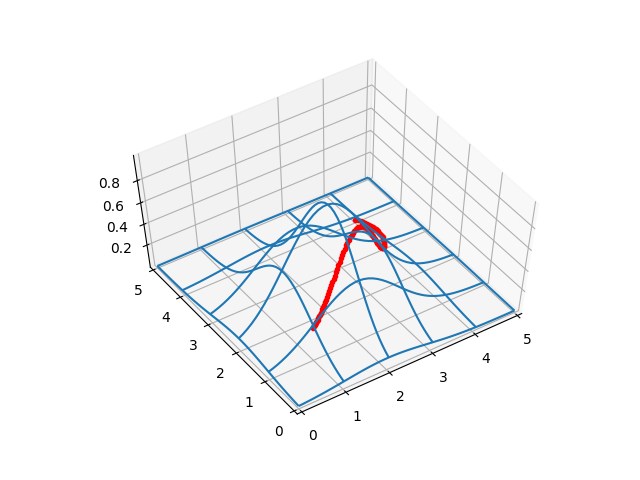
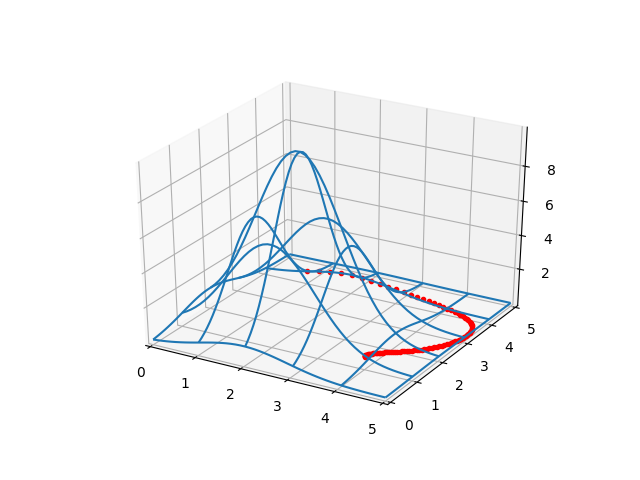
-

diff --git a/calc_multi/calc_multi_40_elev/calc_multi_40_elev.html b/calc_multi/calc_multi_40_elev/calc_multi_40_elev.html
@@ -83,8 +83,9 @@ def plot_surf_path(a0,a1,a2,a3,a4,b0,b1,b2,b3,b4):
     y = b0 + b1*t + b2*t**2 + b3*t**3 + b4*t**4
 
     ax.plot3D(x, y, gfunc(x,y),'r.')
+</code></pre>
 
-# 1. gidis yolunun tanimi, uzun yoldan dolanarak gidiyor
+<pre><code class="python"># 1. gidis yolunun tanimi, uzun yoldan dolanarak gidiyor
 a1,a2,a3 = 1.5, 8.1, 4.0
 b1,b2,b3 = 0.3, 0.4, 23.3
 a0,b0=(1.0,1.0)
@@ -234,6 +235,12 @@ ex,ey=(0.3,4.0)
 res = find_path(ex,ey,a0,b0)
 print  ('res',res)
 print  ('res',res['x'])
+
+a0,b0=(4.0,1.0)
+ex,ey=(1.0,4.0)
+res = find_path(ex,ey,a0,b0)
+print  ('res',res)
+print  ('res',res['x'])
 </code></pre>
 
 <pre><code>res  barrier_parameter: 6.400000000000003e-06
@@ -271,6 +278,8 @@ print  ('res',res['x'])
                  x: array([-1.08548354, -0.36789632, -0.20897387,  0.2395503 ,  0.29868552,
         0.00380265])
 res [-1.08548354 -0.36789632 -0.20897387  0.2395503   0.29868552  0.00380265]
+...
+res [-0.3061632   4.76223126  4.99872105  0.41013189  4.9713953   4.9745472 ]
 </code></pre>
 
 <p>Bir optimal sonuç bulundu. Grafikleyelim,</p>
@@ -284,6 +293,18 @@ plt.savefig('calc_multi_40_elev_04.png')
 <p><img alt="" src="calc_multi_40_elev_04.png" /></p>
 <p>Yol oldukca optimal duruyor. Gereksiz iniş çıkış yok, ve yatay mesafe de
 minimize edilmiş. </p>
+<p>İkinci örnek </p>
+<pre><code class="python">a0,b0=(4.0,1.0)
+ex,ey=(1.0,4.0)
+a1,a2,a3,b1,b2,b3 = -0.3061632,   4.76223126,  4.99872105,  0.41013189,  4.9713953,   4.9745472 
+a4 = ex - a0 - (a1+a2+a3)
+b4 = ey - b0 - (b1+b2+b3)
+plot_surf_path(a0,a1,a2,a3,a4,b0,b1,b2,b3,b4)
+plt.savefig('calc_multi_40_elev_05.png')
+</code></pre>
+
+<p><img alt="" src="calc_multi_40_elev_05.png" /></p>
+<p>Görüldüğü gibi yol tepeden uzak durmaya uğraşmış.</p>
 <p>Kaynaklar </p>
 <p>[1] Bayramlı, Sayısal Bilim, <em>Sayısal Entegrasyon (Numerical Integration)</em></p>
 <p>[2] Bayramlı, Cok Boyutlu Calculus, <em>Ders 19, Skalar Alanlar Uzerinden Cizgi Entegral</em></p>

diff --git a/calc_multi/calc_multi_40_elev/yukseklik_fonksiyonu__tepeler__arasindan_en_duz_optimal_yuruyus_yolunu_bulmak.html b/calc_multi/calc_multi_40_elev/yukseklik_fonksiyonu__tepeler__arasindan_en_duz_optimal_yuruyus_yolunu_bulmak.html
@@ -83,8 +83,9 @@ def plot_surf_path(a0,a1,a2,a3,a4,b0,b1,b2,b3,b4):
     y = b0 + b1*t + b2*t**2 + b3*t**3 + b4*t**4
 
     ax.plot3D(x, y, gfunc(x,y),'r.')
+</code></pre>
 
-# 1. gidis yolunun tanimi, uzun yoldan dolanarak gidiyor
+<pre><code class="python"># 1. gidis yolunun tanimi, uzun yoldan dolanarak gidiyor
 a1,a2,a3 = 1.5, 8.1, 4.0
 b1,b2,b3 = 0.3, 0.4, 23.3
 a0,b0=(1.0,1.0)
@@ -234,6 +235,12 @@ ex,ey=(0.3,4.0)
 res = find_path(ex,ey,a0,b0)
 print  ('res',res)
 print  ('res',res['x'])
+
+a0,b0=(4.0,1.0)
+ex,ey=(1.0,4.0)
+res = find_path(ex,ey,a0,b0)
+print  ('res',res)
+print  ('res',res['x'])
 </code></pre>
 
 <pre><code>res  barrier_parameter: 6.400000000000003e-06
@@ -271,6 +278,8 @@ print  ('res',res['x'])
                  x: array([-1.08548354, -0.36789632, -0.20897387,  0.2395503 ,  0.29868552,
         0.00380265])
 res [-1.08548354 -0.36789632 -0.20897387  0.2395503   0.29868552  0.00380265]
+...
+res [-0.3061632   4.76223126  4.99872105  0.41013189  4.9713953   4.9745472 ]
 </code></pre>
 
 <p>Bir optimal sonuç bulundu. Grafikleyelim,</p>
@@ -284,6 +293,18 @@ plt.savefig('calc_multi_40_elev_04.png')
 <p><img alt="" src="calc_multi_40_elev_04.png" /></p>
 <p>Yol oldukca optimal duruyor. Gereksiz iniş çıkış yok, ve yatay mesafe de
 minimize edilmiş. </p>
+<p>İkinci örnek </p>
+<pre><code class="python">a0,b0=(4.0,1.0)
+ex,ey=(1.0,4.0)
+a1,a2,a3,b1,b2,b3 = -0.3061632,   4.76223126,  4.99872105,  0.41013189,  4.9713953,   4.9745472 
+a4 = ex - a0 - (a1+a2+a3)
+b4 = ey - b0 - (b1+b2+b3)
+plot_surf_path(a0,a1,a2,a3,a4,b0,b1,b2,b3,b4)
+plt.savefig('calc_multi_40_elev_05.png')
+</code></pre>
+
+<p><img alt="" src="calc_multi_40_elev_05.png" /></p>
+<p>Görüldüğü gibi yol tepeden uzak durmaya uğraşmış.</p>
 <p>Kaynaklar </p>
 <p>[1] Bayramlı, Sayısal Bilim, <em>Sayısal Entegrasyon (Numerical Integration)</em></p>
 <p>[2] Bayramlı, Cok Boyutlu Calculus, <em>Ders 19, Skalar Alanlar Uzerinden Cizgi Entegral</em></p>

diff --git a/calc_multi/calc_multi_40_elev/paths2.py b/calc_multi/calc_multi_40_elev/paths2.py
@@ -59,3 +59,9 @@ ex,ey=(0.3,4.0)
 res = find_path(ex,ey,a0,b0)
 print  ('res',res)
 print  ('res',res['x'])
+
+a0,b0=(4.0,1.0)
+ex,ey=(1.0,4.0)
+res = find_path(ex,ey,a0,b0)
+print  ('res',res)
+print  ('res',res['x'])
